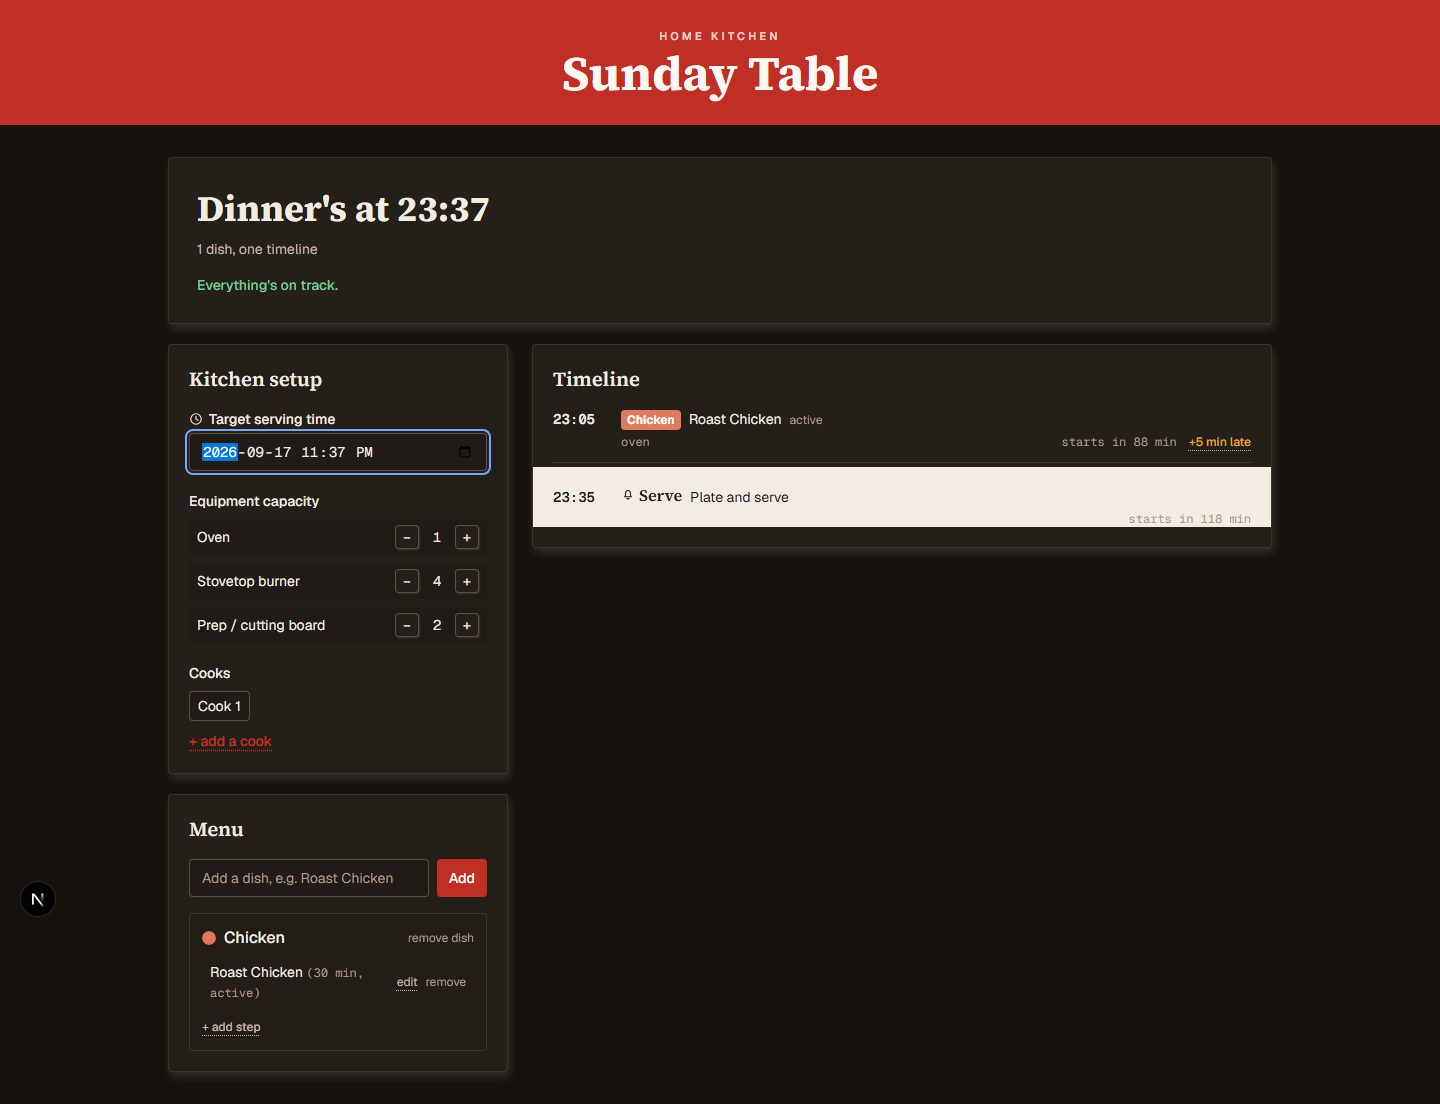
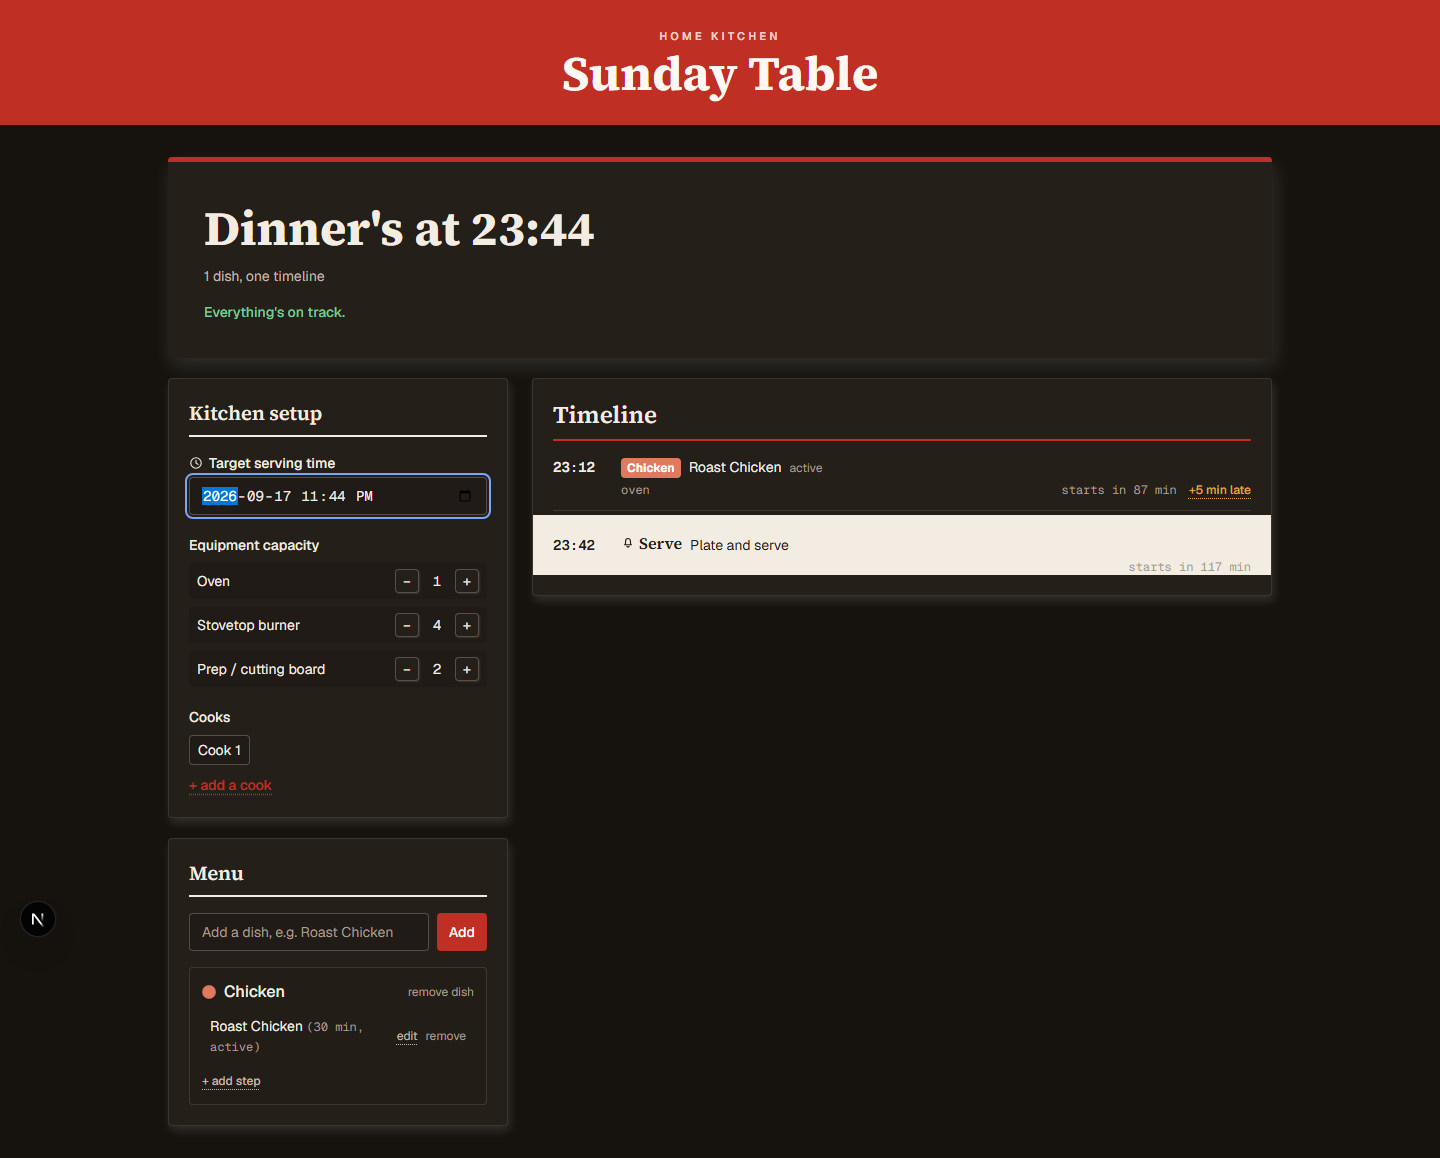
fix: address finish review — give the hero and headings real editorial structure
The review found the redesign was carrying its identity entirely in
color and font, with every card (hero included) sharing the exact
same white-box-thin-border-rounded-corner shape as the previous two
worlds — a reskin of the same dashboard bones rather than a material
shift. Fixes: the hero card gets a heavy red top rule, more padding,
and a larger headline so it reads as the lead story, not card #1 in
a list; every section heading gets a rule line underneath (a real
newspaper section-divider convention), with Timeline's rule in brand
red and a larger size to reflect its priority per PRODUCT.md; and
the mobile tab is renamed "Tonight" so it no longer duplicates the
Timeline card's own heading directly below it.

diff --git a/src/app/page.tsx b/src/app/page.tsx
@@ -42,7 +42,7 @@ export default function Home() {
 
         <nav className="mt-5 flex gap-2 border-b border-[var(--board-edge)] pb-3 lg:hidden">
           <TabButton active={mobileTab === "timeline"} onClick={() => setMobileTab("timeline")}>
-            Timeline
+            Tonight
           </TabButton>
           <TabButton active={mobileTab === "setup"} onClick={() => setMobileTab("setup")}>
             Setup &amp; menu
@@ -96,8 +96,11 @@ function HeroCard({ schedule, error, dishCount, cookCount }: HeroCardProps) {
     cookCount > 1 ? `${dishCount} ${dishWord} · ${cookCount} cooks` : `${dishCount} ${dishWord}, one timeline`;
 
   return (
-    <section className="rounded-sm border border-[var(--paper-edge)] bg-[var(--paper)] p-5 shadow-[2px_5px_10px_var(--board-edge)] sm:p-7">
-      <p className="font-display text-3xl font-bold leading-tight text-[var(--ink)] sm:text-4xl">
+    <section
+      className="rounded-sm bg-[var(--paper)] p-6 shadow-[3px_8px_20px_var(--board-edge)] sm:p-9"
+      style={{ borderTop: "5px solid var(--frame)" }}
+    >
+      <p className="font-display text-4xl font-bold leading-tight text-[var(--ink)] sm:text-5xl">
         {schedule.isFeasible ? <>Dinner&apos;s at {formatClockTime(schedule.targetEpochMinutes)}</> : <>Not enough time before dinner</>}
       </p>
       <p className="mt-2 text-sm text-[var(--ink-muted)]">{servingLine}</p>

diff --git a/src/components/TimelineView.tsx b/src/components/TimelineView.tsx
@@ -42,7 +42,9 @@ export function TimelineView({ schedule, timeline }: TimelineViewProps) {
 
   return (
     <section className="rounded-sm border border-[var(--paper-edge)] bg-[var(--paper)] p-5 shadow-[2px_5px_10px_var(--board-edge)]">
-      <h2 className="font-display mb-4 text-xl font-semibold text-[var(--ink)]">Timeline</h2>
+      <h2 className="font-display mb-4 border-b-2 border-[var(--frame)] pb-2 text-2xl font-semibold text-[var(--ink)]">
+        Timeline
+      </h2>
 
       <div className="mb-3">
         <CookFilterTabs cooks={cooks} selectedCookId={selectedCookId} onSelect={setSelectedCookId} />

diff --git a/src/components/KitchenSetupPanel.tsx b/src/components/KitchenSetupPanel.tsx
@@ -17,7 +17,9 @@ export function KitchenSetupPanel() {
 
   return (
     <section className="rounded-sm border border-[var(--paper-edge)] bg-[var(--paper)] p-5 shadow-[2px_5px_10px_var(--board-edge)]">
-      <h2 className="font-display mb-4 text-xl font-semibold text-[var(--ink)]">Kitchen setup</h2>
+      <h2 className="font-display mb-4 border-b-2 border-[var(--ink)] pb-2 text-xl font-semibold text-[var(--ink)]">
+        Kitchen setup
+      </h2>
 
       <label className="mb-5 block">
         <span className="mb-1 flex items-center gap-1.5 text-sm font-medium text-[var(--ink)]">

diff --git a/src/components/RecipeBuilder.tsx b/src/components/RecipeBuilder.tsx
@@ -36,7 +36,9 @@ export function RecipeBuilder() {
 
   return (
     <section className="rounded-sm border border-[var(--paper-edge)] bg-[var(--paper)] p-5 shadow-[2px_5px_10px_var(--board-edge)]">
-      <h2 className="font-display mb-4 text-xl font-semibold text-[var(--ink)]">Menu</h2>
+      <h2 className="font-display mb-4 border-b-2 border-[var(--ink)] pb-2 text-xl font-semibold text-[var(--ink)]">
+        Menu
+      </h2>
 
       <div className="mb-4 flex gap-2">
         <input
